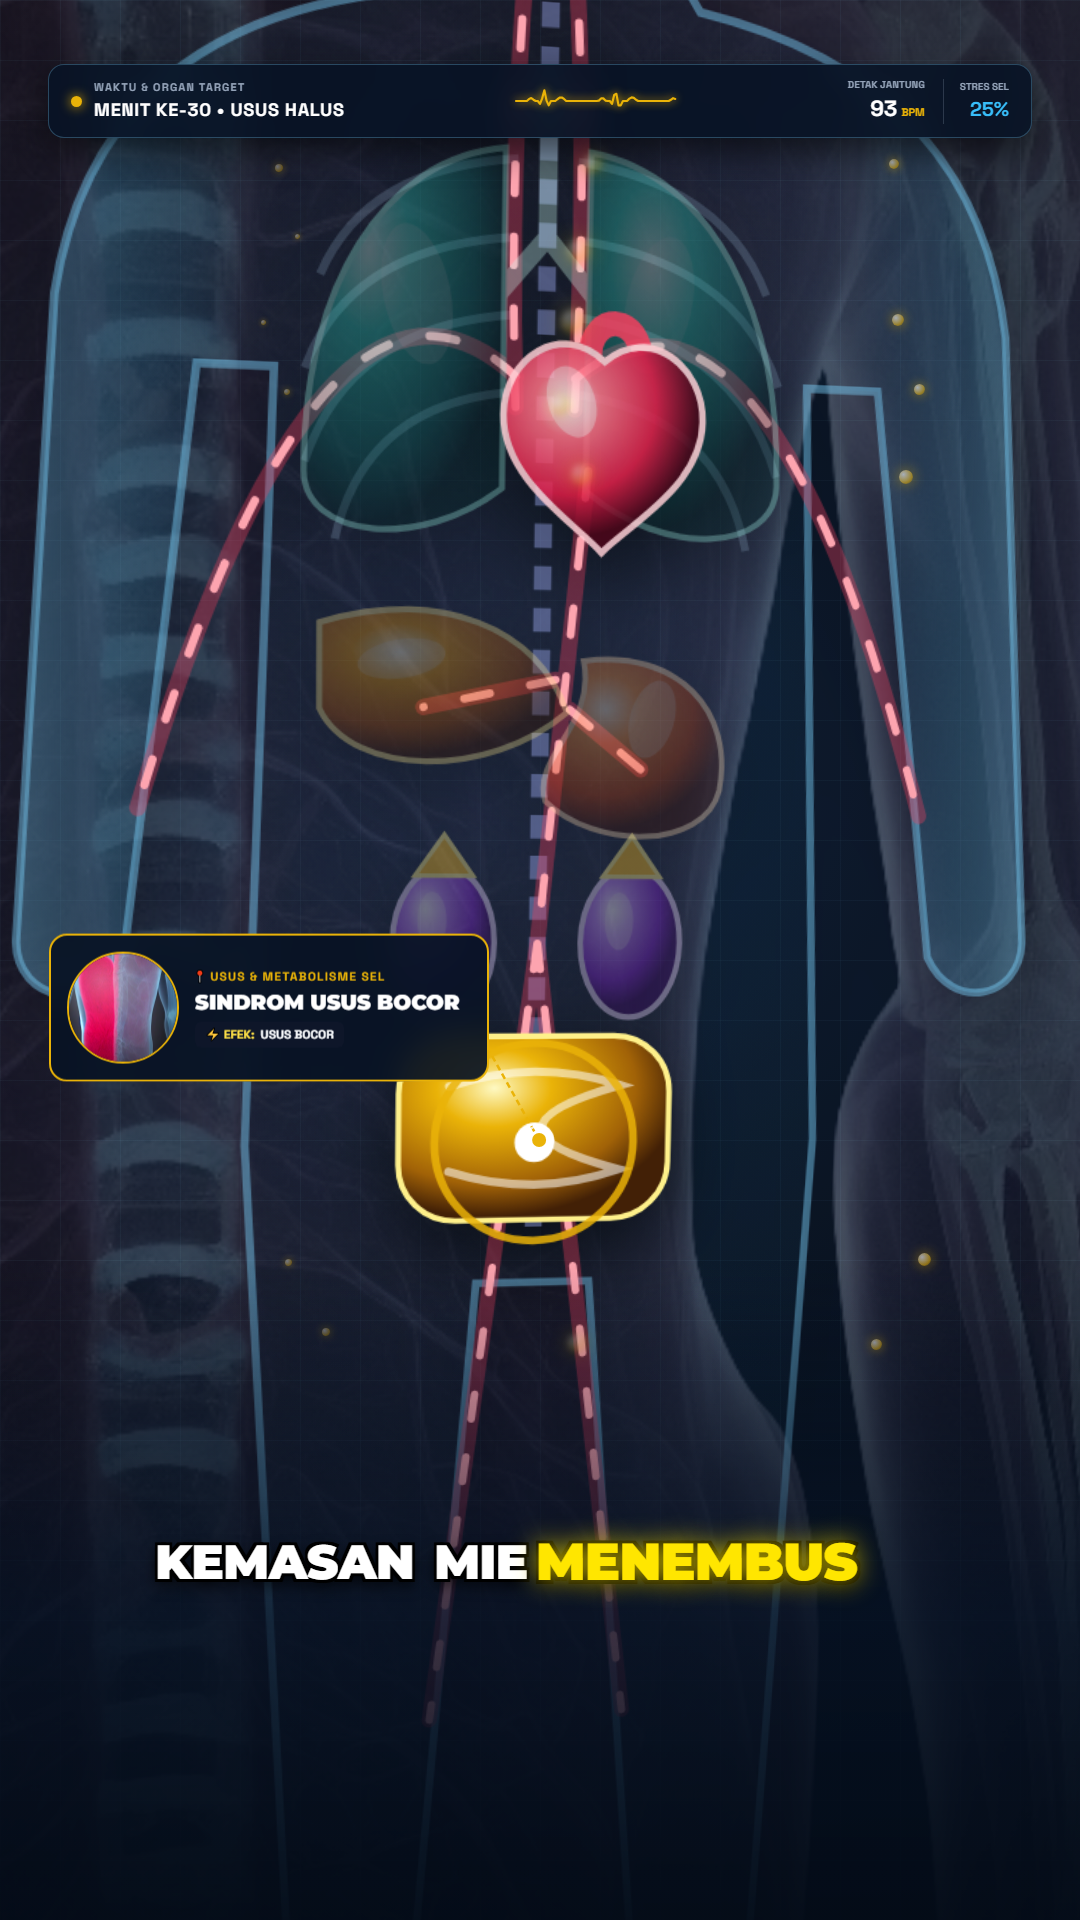
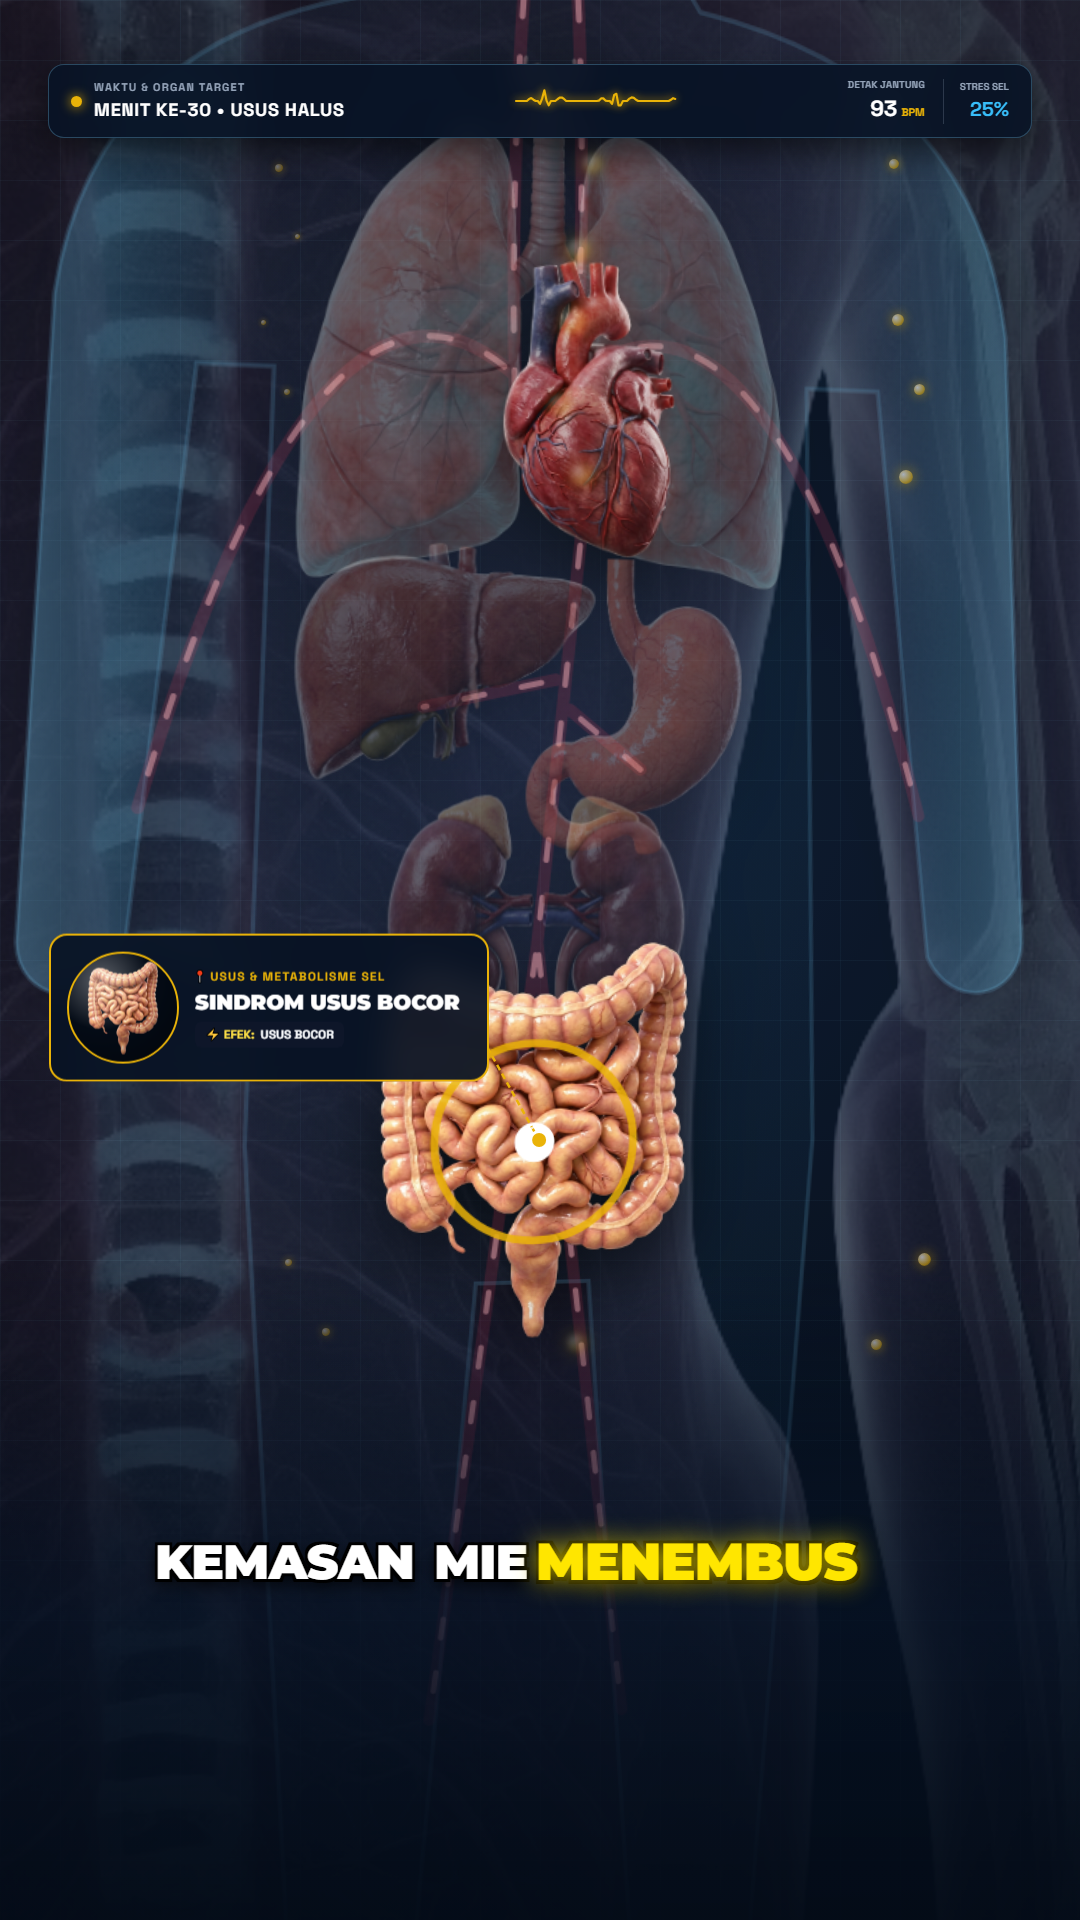
feat: replace cartoon SVG organs with realistic 3D anatomical transparent PNG organ assets

diff --git a/src/components/ContinuousBodyJourney.tsx b/src/components/ContinuousBodyJourney.tsx
@@ -42,7 +42,7 @@ export const ORGAN_CAMERA_ANCHORS: Record<string, OrganCameraAnchor> = {
     stageY: 22,
     zoomScale: 1.48,
     color: '#38bdf8',
-    organMediaUrl: 'butterfly/media/medical_brain_xray.jpg',
+    organMediaUrl: 'butterfly/organs/brain.png',
     calloutSide: 'right',
   },
   nerves: {
@@ -52,7 +52,7 @@ export const ORGAN_CAMERA_ANCHORS: Record<string, OrganCameraAnchor> = {
     stageY: 36,
     zoomScale: 1.38,
     color: '#818cf8',
-    organMediaUrl: 'butterfly/media/medical_brain_xray.jpg',
+    organMediaUrl: 'butterfly/organs/brain.png',
     calloutSide: 'left',
   },
   lungs: {
@@ -62,57 +62,57 @@ export const ORGAN_CAMERA_ANCHORS: Record<string, OrganCameraAnchor> = {
     stageY: 63,
     zoomScale: 1.36,
     color: '#2dd4bf',
-    organMediaUrl: 'butterfly/media/medical_heart_xray.jpg',
+    organMediaUrl: 'butterfly/organs/lungs.png',
     calloutSide: 'left',
   },
   heart: {
     id: 'heart',
     label: 'JANTUNG & PEMBULUH DARAH',
-    stageX: 54,
-    stageY: 69,
+    stageX: 53,
+    stageY: 68,
     zoomScale: 1.46,
     color: '#f43f5e',
-    organMediaUrl: 'butterfly/media/medical_heart_xray.jpg',
+    organMediaUrl: 'butterfly/organs/heart.png',
     calloutSide: 'right',
   },
   blood: {
     id: 'blood',
     label: 'SIRKULASI ALIRAN DARAH',
-    stageX: 52,
-    stageY: 74,
+    stageX: 53,
+    stageY: 68,
     zoomScale: 1.38,
     color: '#ef4444',
-    organMediaUrl: 'butterfly/media/medical_heart_xray.jpg',
+    organMediaUrl: 'butterfly/organs/heart.png',
     calloutSide: 'left',
   },
   liver: {
     id: 'liver',
     label: 'HATI (LIVER) & DETOKS',
-    stageX: 42,
-    stageY: 86,
+    stageX: 43,
+    stageY: 85,
     zoomScale: 1.44,
     color: '#f59e0b',
-    organMediaUrl: 'butterfly/media/medical_stomach_xray.jpg',
+    organMediaUrl: 'butterfly/organs/liver.png',
     calloutSide: 'left',
   },
   stomach: {
     id: 'stomach',
     label: 'LAMBUNG & ASAM PENCERNAAN',
     stageX: 57,
-    stageY: 90,
+    stageY: 88,
     zoomScale: 1.46,
     color: '#fb923c',
-    organMediaUrl: 'butterfly/media/medical_stomach_xray.jpg',
+    organMediaUrl: 'butterfly/organs/stomach.png',
     calloutSide: 'right',
   },
   kidney: {
     id: 'kidney',
     label: 'GINJAL & KELENJAR ADRENAL',
     stageX: 50,
-    stageY: 104,
+    stageY: 103,
     zoomScale: 1.44,
     color: '#a855f7',
-    organMediaUrl: 'butterfly/media/medical_stomach_xray.jpg',
+    organMediaUrl: 'butterfly/organs/kidneys.png',
     calloutSide: 'right',
   },
   intestine: {
@@ -122,7 +122,7 @@ export const ORGAN_CAMERA_ANCHORS: Record<string, OrganCameraAnchor> = {
     stageY: 118,
     zoomScale: 1.38,
     color: '#eab308',
-    organMediaUrl: 'butterfly/media/medical_stomach_xray.jpg',
+    organMediaUrl: 'butterfly/organs/intestines.png',
     calloutSide: 'left',
   },
   muscles: {
@@ -469,178 +469,144 @@ export const ContinuousBodyJourney: React.FC<ContinuousBodyJourneyProps> = ({
             </linearGradient>
           </defs>
 
-          {/* 3D Translucent Glass Torso Shell with Rim Lighting */}
+          {/* 3DTranslucent Anatomical Body Aura (Subtle, no cartoon block hands) */}
           <path
             d="M50 6 C58 6 63 12 63 21 C63 28 59 33 56 36 L60 42 C72 44 80 50 82 62 L85 104 C85 108 80 109 78 105 L73 66 L68 66 L70 118 L67 178 C67 183 59 183 58 178 L54 128 L46 128 L42 178 C41 183 33 183 33 178 L30 118 L32 66 L27 66 L22 105 C20 109 15 108 15 104 L18 62 C20 50 28 44 40 42 L44 36 C41 33 37 28 37 21 C37 12 42 6 50 6 Z"
             fill="url(#glassBodyRim)"
-            stroke="rgba(125, 211, 252, 0.45)"
-            strokeWidth="0.55"
+            stroke="rgba(125, 211, 252, 0.16)"
+            strokeWidth="0.3"
           />
 
-          {/* 3D Ribcage & Spine Depth Structure */}
-          <g stroke="rgba(186, 230, 253, 0.18)" strokeWidth="0.55" fill="none">
-            <line x1="50" y1="28" x2="50" y2="124" stroke="rgba(165, 180, 252, 0.4)" strokeWidth="1.2" strokeDasharray="1.6 1.2" />
-            <path d="M48 52 Q38 53 35 60 M52 52 Q62 53 65 60" />
-            <path d="M48 57 Q37 58 34 66 M52 57 Q63 58 66 66" />
-            <path d="M48 62 Q37 63 34 72 M52 62 Q63 63 66 72" />
-            <path d="M48 67 Q38 68 36 77 M52 67 Q62 68 64 77" />
-          </g>
-
           {/* 3D Arterial & Venous Bloodstream Highway */}
-          <g fill="none" strokeLinecap="round">
+          <g fill="none" strokeLinecap="round" opacity="0.55">
             {/* Outer Vessel Tube */}
             <path
               d="M52 68 Q53 45 50 24 M48 68 Q47 45 50 24 M52 66 Q65 55 77 95 M48 66 Q35 55 23 95 M53 72 L50 104 L43 160 M53 72 L50 104 L57 160 M51 86 L42 88 M52 88 L57 92"
-              stroke="rgba(244, 63, 94, 0.35)"
-              strokeWidth="1.1"
+              stroke="rgba(244, 63, 94, 0.28)"
+              strokeWidth="0.85"
             />
             {/* Flowing Blood Cells Pulse Inside Vessels */}
             <path
               d="M52 68 Q53 45 50 24 M48 68 Q47 45 50 24 M52 66 Q65 55 77 95 M48 66 Q35 55 23 95 M53 72 L50 104 L43 160 M53 72 L50 104 L57 160 M51 86 L42 88 M52 88 L57 92"
               stroke="#fda4af"
-              strokeWidth="0.55"
-              strokeDasharray="1.8 2.8"
+              strokeWidth="0.4"
+              strokeDasharray="1.4 2.6"
               strokeDashoffset={-(frame * (0.5 + (smoothChaos / 100) * 0.7))}
             />
           </g>
 
-          {/* 1. 3D VOLUMETRIC BRAIN (Stage Y: 22) */}
+          {/* 1. REAL 3D ANATOMICAL BRAIN (Stage X: 50, Y: 22) */}
           <g
-            transform={`translate(50, 21) scale(${1 + Math.sin(frame * 0.08) * 0.025})`}
+            transform={`translate(50, 21.5) scale(${1 + Math.sin(frame * 0.08) * 0.025})`}
             opacity={getOrganGlow('brain', 50, 22)}
           >
-            {/* Left & Right 3D Cerebral Lobes */}
-            <path
-              d="M-0.4 -7.8 C-6.8 -7.8 -10.2 -3.8 -10.2 1.2 C-10.2 5.8 -6.5 8.2 -0.8 8.2 Z"
-              fill="url(#vol3DBrain)"
-              stroke="#bae6fd"
-              strokeWidth="0.4"
-            />
-            <path
-              d="M0.4 -7.8 C6.8 -7.8 10.2 -3.8 10.2 1.2 C10.2 5.8 6.5 8.2 0.8 8.2 Z"
-              fill="url(#vol3DBrain)"
-              stroke="#bae6fd"
-              strokeWidth="0.4"
-            />
-            {/* 3D Cortical Sulci Highlights */}
-            <path
-              d="M-7.5 -2.5 Q-4.5 -4.5 -1.8 -1.2 M-8.2 2 Q-5 0 -1.8 3.2 M7.5 -2.5 Q4.5 -4.5 1.8 -1.2 M8.2 2 Q5 0 1.8 3.2"
-              stroke="rgba(224, 242, 254, 0.75)"
-              strokeWidth="0.45"
-              fill="none"
-              strokeLinecap="round"
+            <image
+              href={staticFile('butterfly/organs/brain.png')}
+              x="-11.5"
+              y="-11.5"
+              width="23"
+              height="23"
+              preserveAspectRatio="xMidYMid meet"
+              filter="url(#volumetricShadow)"
             />
             {/* Active Neural Synapse Sparks */}
-            <circle cx={Math.sin(frame * 0.16) * 5.2} cy={Math.cos(frame * 0.22) * 3.5} r="1.1" fill="#ffffff" />
-            <circle cx={Math.cos(frame * 0.14) * -4.6} cy={Math.sin(frame * 0.19) * 3} r="0.95" fill="#fde047" />
+            <circle cx={Math.sin(frame * 0.16) * 5.2} cy={Math.cos(frame * 0.22) * 3.5} r="0.8" fill="#ffffff" />
+            <circle cx={Math.cos(frame * 0.14) * -4.6} cy={Math.sin(frame * 0.19) * 3} r="0.7" fill="#38bdf8" />
           </g>
 
-          {/* 2. 3D VOLUMETRIC LUNGS (Stage Y: 63 — Expands with Breathing) */}
+          {/* 2. REAL 3D ANATOMICAL LUNGS (Stage X: 50, Y: 63 — Expands with Breathing) */}
           <g
-            transform={`translate(50, 63) scale(${1 + breathCycle * 0.05}, ${1 + breathCycle * 0.04})`}
+            transform={`translate(50, 62.5) scale(${1 + breathCycle * 0.045}, ${1 + breathCycle * 0.038})`}
             opacity={getOrganGlow('lungs', 50, 63)}
           >
-            {/* Trachea & Bronchial Stem */}
-            <path d="M0 -16 L0 -6 M0 -6 L-6 1 M0 -6 L6 1" stroke="#ccfbf1" strokeWidth="1.2" fill="none" strokeLinecap="round" />
-            {/* Right & Left 3D Shaded Lung Lobes */}
-            <path
-              d="M-2.8 -11.5 C-10.8 -10.5 -15.8 -2 -15.8 9.5 C-15.8 13.8 -8.2 14.5 -2.8 10.2 Z"
-              fill="url(#vol3DLung)"
-              stroke="#99f6e4"
-              strokeWidth="0.4"
+            <image
+              href={staticFile('butterfly/organs/lungs.png')}
+              x="-18"
+              y="-17.5"
+              width="36"
+              height="35"
+              preserveAspectRatio="xMidYMid meet"
+              filter="url(#volumetricShadow)"
             />
-            <path
-              d="M2.8 -11.5 C10.8 -10.5 15.8 -2 15.8 9.5 C15.8 13.8 8.2 14.5 2.8 10.2 Z"
-              fill="url(#vol3DLung)"
-              stroke="#99f6e4"
-              strokeWidth="0.4"
-            />
-            {/* Specular 3D Highlight on Lungs */}
-            <ellipse cx="-8.5" cy="-2" rx="2.2" ry="4.5" fill="rgba(255,255,255,0.22)" transform="rotate(-12 -8.5 -2)" />
-            <ellipse cx="7.5" cy="-2" rx="2.2" ry="4.5" fill="rgba(255,255,255,0.18)" transform="rotate(12 7.5 -2)" />
           </g>
 
-          {/* 3. 3D VOLUMETRIC BEATING HEART (Stage X: 54, Y: 69) */}
+          {/* 3. REAL 3D ANATOMICAL BEATING HEART (Stage X: 53, Y: 68) */}
           <g
-            transform={`translate(54, 69) scale(${1 + heartPulse * 0.18})`}
-            opacity={Math.max(0.85, getOrganGlow('heart', 54, 69))}
+            transform={`translate(53, 68) scale(${1 + heartPulse * 0.14})`}
+            opacity={Math.max(0.88, getOrganGlow('heart', 53, 68))}
           >
-            {/* Aortic Arch */}
-            <path d="M-1 -4.5 C-1 -7.5 2.5 -7.5 2.5 -4.2" stroke="#f43f5e" strokeWidth="1.6" fill="none" strokeLinecap="round" />
-            {/* 3D Shaded Ventricles */}
-            <path
-              d="M0 -4.2 C-3 -6.8 -6.8 -4.2 -6.8 -0.5 C-6.8 3.8 -1.8 6.5 0 8.4 C1.8 6.5 6.8 3.8 6.8 -0.5 C6.8 -4.2 3 -6.8 0 -4.2 Z"
-              fill="url(#vol3DHeart)"
-              stroke="#fecdd3"
-              strokeWidth="0.45"
+            <image
+              href={staticFile('butterfly/organs/heart.png')}
+              x="-7.5"
+              y="-10"
+              width="15"
+              height="20"
+              preserveAspectRatio="xMidYMid meet"
+              filter="url(#volumetricShadow)"
             />
-            {/* 3D Specular Gloss on Heart */}
-            <ellipse cx="-2.2" cy="-1.5" rx="1.6" ry="2.4" fill="rgba(255,255,255,0.38)" transform="rotate(-20 -2.2 -1.5)" />
           </g>
 
-          {/* 4. 3D VOLUMETRIC LIVER (Stage X: 42, Y: 86) */}
+          {/* 4. REAL 3D ANATOMICAL LIVER (Stage X: 43, Y: 85) */}
           <g
-            transform="translate(43, 86)"
-            opacity={getOrganGlow('liver', 42, 86)}
+            transform="translate(43.5, 85)"
+            opacity={getOrganGlow('liver', 43, 85)}
           >
-            <path
-              d="M-8 -3.5 C0 -6 6.8 -3.5 8.8 2.2 C3.5 6.8 -5.8 6.8 -8 2.2 Z"
-              fill="url(#vol3DLiver)"
-              stroke="#fde68a"
-              strokeWidth="0.4"
+            <image
+              href={staticFile('butterfly/organs/liver.png')}
+              x="-10.5"
+              y="-8.5"
+              width="21"
+              height="17"
+              preserveAspectRatio="xMidYMid meet"
+              filter="url(#volumetricShadow)"
             />
-            <ellipse cx="-2.5" cy="-1.2" rx="3" ry="1.3" fill="rgba(255,255,255,0.25)" transform="rotate(-10 -2.5 -1.2)" />
           </g>
 
-          {/* 5. 3D VOLUMETRIC STOMACH (Stage X: 57, Y: 90) */}
+          {/* 5. REAL 3D ANATOMICAL STOMACH (Stage X: 57, Y: 88) */}
           <g
-            transform={`translate(56, 90) scale(${1 + Math.sin(frame * 0.08) * 0.035})`}
-            opacity={getOrganGlow('stomach', 57, 90)}
+            transform={`translate(56.5, 88) scale(${1 + Math.sin(frame * 0.08) * 0.03})`}
+            opacity={getOrganGlow('stomach', 57, 88)}
           >
-            <path
-              d="M-3.2 -5.5 C3.5 -6.5 7.8 -2.2 6.8 3.5 C5.8 7.8 -2.2 7.8 -5.8 4.4 C-6.8 1.2 -2.2 -1 -3.2 -5.5 Z"
-              fill="url(#vol3DStomach)"
-              stroke="#fed7aa"
-              strokeWidth="0.4"
+            <image
+              href={staticFile('butterfly/organs/stomach.png')}
+              x="-8.5"
+              y="-10.5"
+              width="17"
+              height="21"
+              preserveAspectRatio="xMidYMid meet"
+              filter="url(#volumetricShadow)"
             />
-            <ellipse cx="1.8" cy="-1.5" rx="1.6" ry="2.8" fill="rgba(255,255,255,0.28)" transform="rotate(15 1.8 -1.5)" />
           </g>
 
-          {/* 6. 3D VOLUMETRIC KIDNEYS & ADRENAL GLANDS (Stage X: 50, Y: 104) */}
+          {/* 6. REAL 3D ANATOMICAL KIDNEYS & ADRENAL GLANDS (Stage X: 50, Y: 103) */}
           <g
-            transform="translate(50, 104)"
-            opacity={getOrganGlow('kidney', 50, 104)}
+            transform="translate(50, 103)"
+            opacity={getOrganGlow('kidney', 50, 103)}
           >
-            <ellipse cx="-6.5" cy="0" rx="3.5" ry="5.2" fill="url(#vol3DKidney)" stroke="#e9d5ff" strokeWidth="0.4" />
-            <ellipse cx="6.5" cy="0" rx="3.5" ry="5.2" fill="url(#vol3DKidney)" stroke="#e9d5ff" strokeWidth="0.4" />
-            <ellipse cx="-7.3" cy="-1.5" rx="1" ry="2" fill="rgba(255,255,255,0.3)" />
-            <ellipse cx="5.7" cy="-1.5" rx="1" ry="2" fill="rgba(255,255,255,0.3)" />
-            {/* Adrenal Caps */}
-            <polygon points="-8.5,-4.6 -4.5,-4.6 -6.5,-7.4" fill="#fbbf24" stroke="#fef08a" strokeWidth="0.3" />
-            <polygon points="4.5,-4.6 8.5,-4.6 6.5,-7.4" fill="#fbbf24" stroke="#fef08a" strokeWidth="0.3" />
+            <image
+              href={staticFile('butterfly/organs/kidneys.png')}
+              x="-11.5"
+              y="-9.5"
+              width="23"
+              height="19"
+              preserveAspectRatio="xMidYMid meet"
+              filter="url(#volumetricShadow)"
+            />
           </g>
 
-          {/* 7. 3D VOLUMETRIC INTESTINES (Stage X: 50, Y: 118) */}
+          {/* 7. REAL 3D ANATOMICAL INTESTINES (Stage X: 50, Y: 118) */}
           <g
-            transform="translate(50, 117)"
+            transform="translate(50, 118)"
             opacity={getOrganGlow('intestine', 50, 118)}
           >
-            <rect
-              x="-9.5"
-              y="-6.5"
-              width="19"
-              height="13"
-              rx="4"
-              fill="url(#vol3DIntestine)"
-              stroke="#fef08a"
-              strokeWidth="0.4"
-            />
-            <path
-              d="M-6 -3 Q0 -5 6 -3 Q-5 0 6 3 Q0 5 -6 3"
-              stroke="rgba(255,255,255,0.55)"
-              strokeWidth="0.6"
-              fill="none"
-              strokeLinecap="round"
+            <image
+              href={staticFile('butterfly/organs/intestines.png')}
+              x="-12.5"
+              y="-14.5"
+              width="25"
+              height="29"
+              preserveAspectRatio="xMidYMid meet"
+              filter="url(#volumetricShadow)"
             />
           </g>
 
@@ -743,11 +709,12 @@ export const ContinuousBodyJourney: React.FC<ContinuousBodyJourneyProps> = ({
           <Img
             src={staticFile(activeWp.anchor.organMediaUrl)}
             style={{
-              width: '100%',
-              height: '100%',
-              objectFit: 'cover',
-              transform: `scale(${1.18 + systolicBeat * 0.08})`,
-              filter: 'contrast(1.25) saturate(1.3)',
+              width: '84%',
+              height: '84%',
+              margin: '8%',
+              objectFit: 'contain',
+              transform: `scale(${1.05 + systolicBeat * 0.08})`,
+              filter: `drop-shadow(0 0 10px ${accentColor}88) contrast(1.15) saturate(1.2)`,
             }}
           />
           {/* 3D Glass Sphere Highlight Overlay */}
